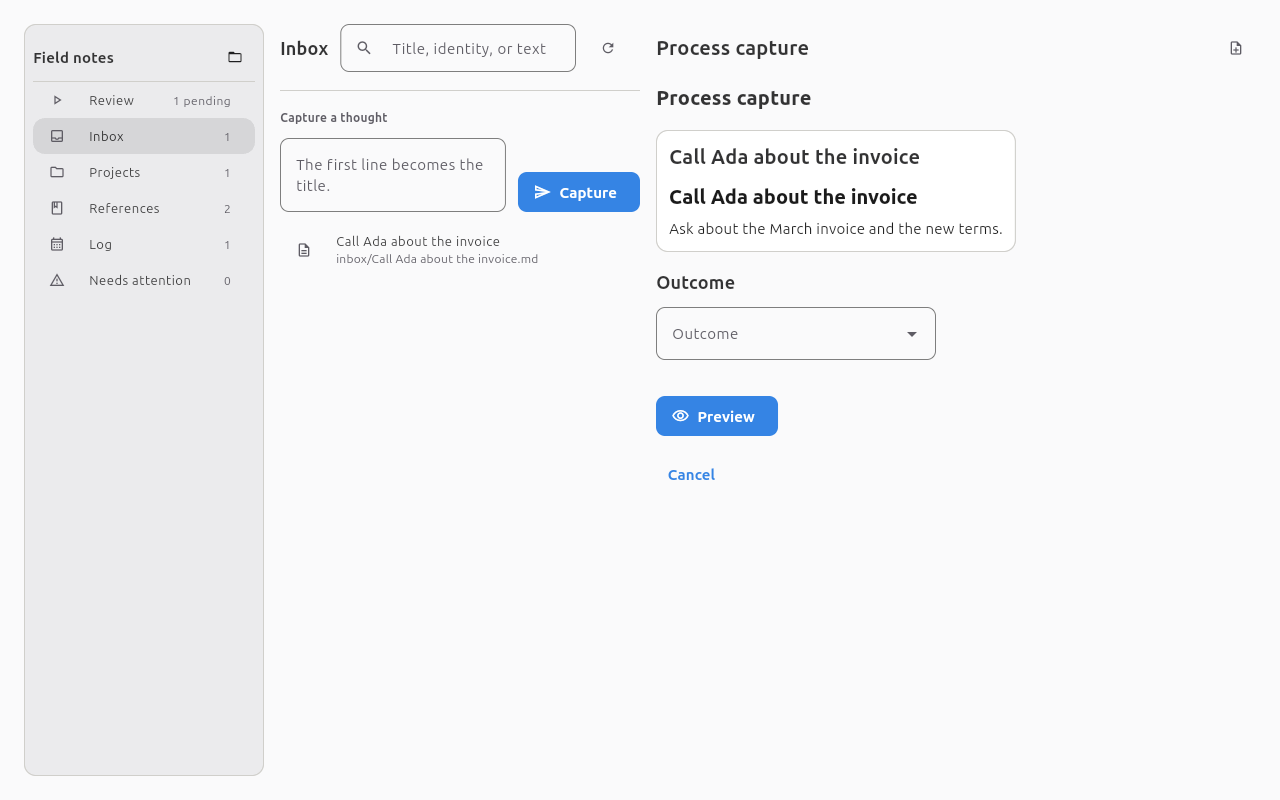
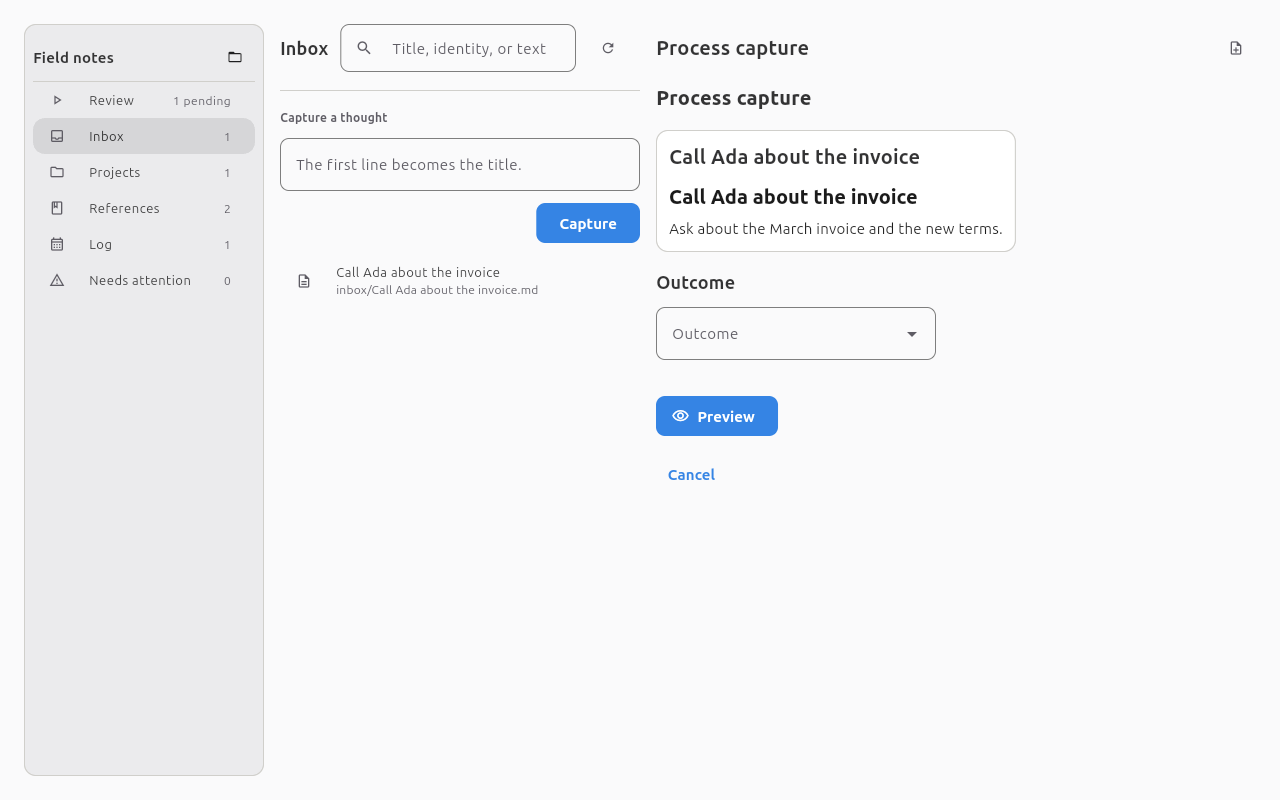
fix(capture): give the composer the full browser width
Follow the HIG button guidance: use a full-width multiline field, place the label-only Capture action below it, and keep it as the single suggested action.

Changed region(s): [[0.375, 0.1875, 0.5, 0.3125], [0.2188, 0.2812, 0.4062, 0.375], [0.2188, 0.2188, 0.25, 0.25]]

diff --git a/src/afanes/ui/views/workspace.py b/src/afanes/ui/views/workspace.py
@@ -211,29 +211,27 @@ class WorkspaceView:
             multiline=True,
             min_lines=1,
             max_lines=4,
-            expand=True,
             on_submit=self._capture,
             key="workspace-capture-field",
         )
         self.capture_button = ft.FilledButton(
             content=afanes.ui.strings.CAPTURE_ACTION,
-            icon=ft.Icons.SEND_OUTLINED,
             on_click=self._capture,
             key="workspace-capture-button",
         )
-        self.capture_row = ft.Row(
-            controls=[self.capture_field, self.capture_button],
-            spacing=afanes.ui.theme.ITEM_GAP,
-            vertical_alignment=ft.CrossAxisAlignment.END,
-            key="workspace-capture-row",
+        self.capture_actions = ft.Row(
+            controls=[self.capture_button],
+            alignment=ft.MainAxisAlignment.END,
+            key="workspace-capture-actions",
         )
         self.capture_label = ft.Text(
             afanes.ui.strings.COMPOSER_LABEL,
             style=afanes.ui.theme.TEXT_ROLES["caption-heading"],
         )
         self.capture_section = ft.Column(
-            controls=[self.capture_label, self.capture_row],
+            controls=[self.capture_label, self.capture_field, self.capture_actions],
             spacing=afanes.ui.theme.ITEM_GAP,
+            horizontal_alignment=ft.CrossAxisAlignment.STRETCH,
             key="workspace-capture-section",
         )
 

diff --git a/tests/ui/test_conformance.py b/tests/ui/test_conformance.py
@@ -89,7 +89,6 @@ BASELINE: dict[str, dict[str, int]] = {
         "views/page.py::PageView": 15,
         "views/processing.py::ProcessingView": 2,
         "views/review.py::ReviewView": 11,
-        "views/workspace.py::WorkspaceView": 1,
     },
     "dense_rows": {
         "components/log_tree.py": 1,
